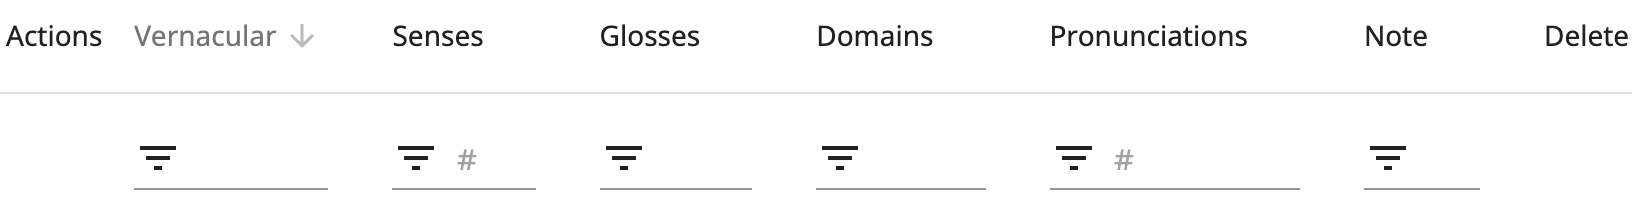
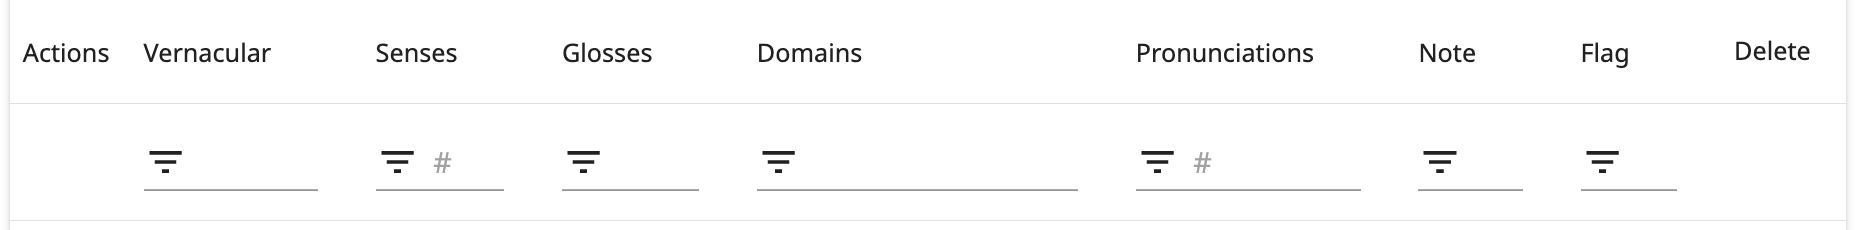
[User Guide] Add/update content in Data Cleanup / Goals (#1639)

diff --git a/docs/user_guide/docs/goals.md b/docs/user_guide/docs/goals.md
@@ -6,12 +6,12 @@ The Review Entries table shows all entries in a project.
 
 ### Sorting and Filtering Columns
 
-The columns are: Actions, Vernacular, Senses, Glosses, Domains, Pronunciations, Note, and Delete.
+The columns are: Actions, Vernacular, Senses, Glosses, Domains, Pronunciations, Note, Flag, and Delete.
 
 ![Review Entries column headers](images/reviewEntriesColumns.png)
 
-At the top of text-based columns (Vernacular, Glosses, Domains, or Note) you can sort alphabetically or filter with a
-text search.
+At the top of text-based columns (Vernacular, Glosses, Domains, Note, or Flag) you can sort alphabetically or filter
+with a text search.
 
 At the top of the Senses and Pronunciations columns you can sort or filter by the number of senses or recordings that
 entries have.
@@ -23,8 +23,44 @@ There is also a Definitions column that can be turned on or off in [Project Sett
 You can record, play, and delete an entry's audio recordings with the icons in the Pronunciations column. You can delete
 an entry with the icon in the Delete column.
 
-To edit an entry's vernacular, senses (including glosses and domains), or note, click the icon in the Actions column.
+To edit an entry's vernacular, senses (including glosses and domains), note, or flag, click the icon in the Actions
+column.
 
 ## Merge Duplicates
 
-## Character Inventory
+## Create Character Inventory
+
+Character Inventory tools are only available to project admins. The character inventory for a project's vernacular
+language is included when the project is [exported](project.md#import-and-export).
+
+There is a tile for each unicode character that appears in the vernacular of any entry. Each tile shows the character,
+its Unicode "U+" code, the number of times it occurs in entry vernaculars, and its designation (default: Undecided).
+
+![Character Inventory character tiles](images/characterInventoryTiles.png)
+
+### Manage a Single Character
+
+Click on a character tile to open a panel for that character.
+
+!!! tip
+
+    You may have to scroll to see the panel. If your window is wide enough, there will be a blank margin on the
+    right; the panel will be at the top of this. If your window is narrow, tiles fill all the way to the right side of the
+    window; the panel will be at the bottom, below all the tiles.
+
+![Character Inventory character panel](images/characterInventoryPanel.png){ .center }
+
+The middle of the panel shows up to 5 example vernaculars in which the character occurs, highlighting the character in
+each occurrence.
+
+At the top of the panel are three buttons for designating whether the character should be included in the vernacular
+language's character inventory: "ACCEPT", "UNDECIDED", and "REJECT". Pressing any of these buttons will update the
+designation at the bottom of the character tile. (These updates to the character inventory are not saved to the project
+until you click the SAVE button at the bottom of the page.)
+
+At the bottom of the panel is a Find-and-Replace tool. If _every_ occurrence of the character should be replaced with
+something else, type the replacement character or string in the "Replace with" box and click the APPLY button.
+
+!!! important
+
+    The find-and-replace operation makes changes to entries, not the the character inventory. It **cannot be undone!**
